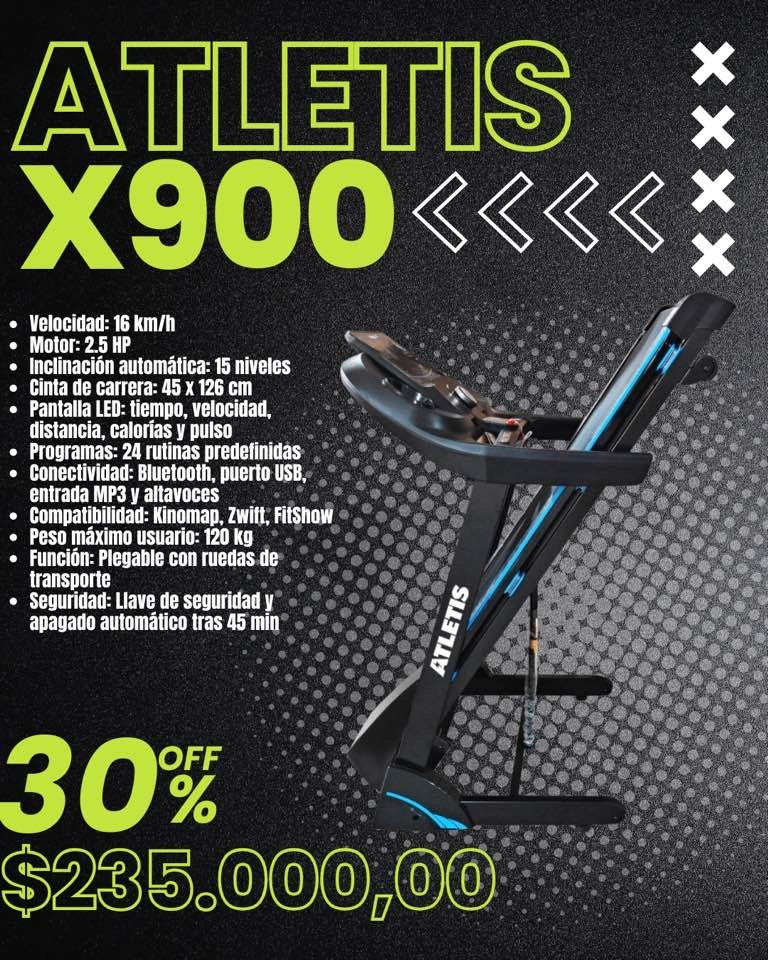
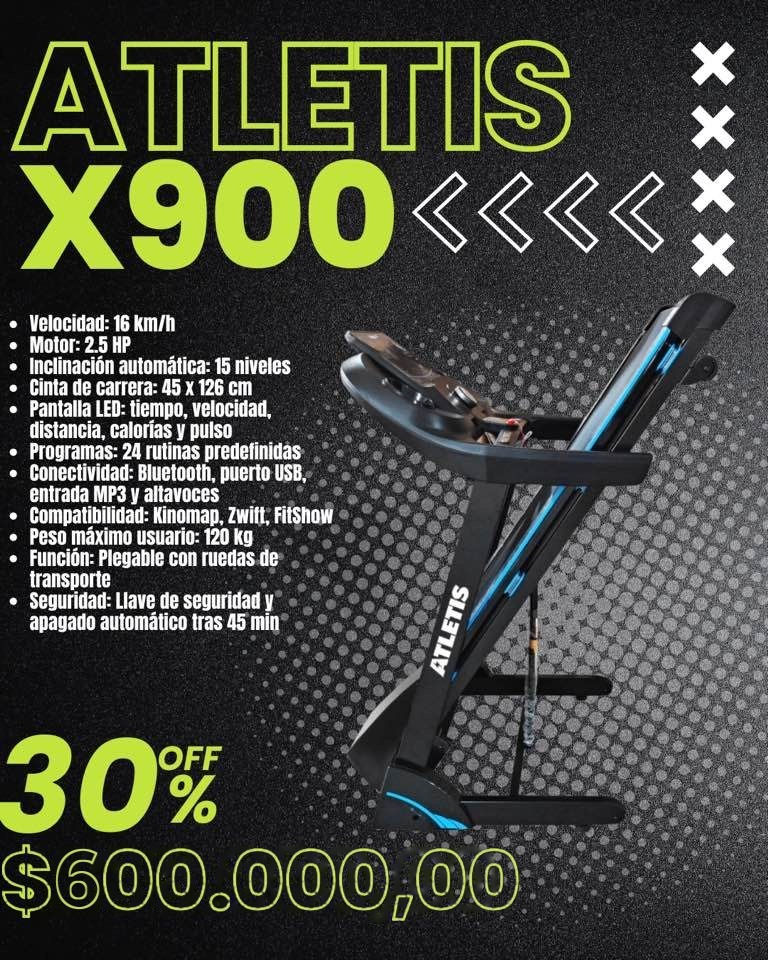
Set the Atletis X900 to 600,000 (list 857,143) and update its flyers

Changed region(s): [[0.0, 0.875, 0.6875, 0.9688]]

diff --git a/training-gimnasio/script.js b/training-gimnasio/script.js
@@ -442,8 +442,8 @@ const PRODUCTOS = [
     marca: "Atletis",
     nombre: "Cinta de correr X900",
     categoria: "cintas",
-    precio: 235000,
-    precioAnterior: 335000,
+    precio: 600000,
+    precioAnterior: 857143,
     condicion: null,
     etiqueta: "30% OFF",
     fondoOscuro: true,

diff --git a/training-gimnasio/README.md b/training-gimnasio/README.md
@@ -28,7 +28,7 @@ El catálogo tiene 29 productos con sus precios:
 | TG-17 | Banco de abdominales Randers ARG-203 | $110.000 de contado |
 | TG-18 | Kit barra, mancuernas y discos | $110.000 de contado |
 | TG-19 | Mancuerna hexagonal maciza 5 kg | $30.000 de contado |
-| TG-20 | Cinta de correr Atletis X900 (30% OFF, antes $335.000) | $235.000 |
+| TG-20 | Cinta de correr Atletis X900 (30% OFF, antes $857.143) | $600.000 |
 | TG-21 | Cinta profesional Movement LX160 G4 | $2.800.000 · hasta 12 cuotas sin interés |
 | TG-22 | Multigym Olmo Fit 44 (35% OFF, antes $500.000) | $325.000 · cuotas con interés |
 | TG-23 | Multigimnasio Body Skull | $1.000.500 · hasta 12 cuotas sin interés |
